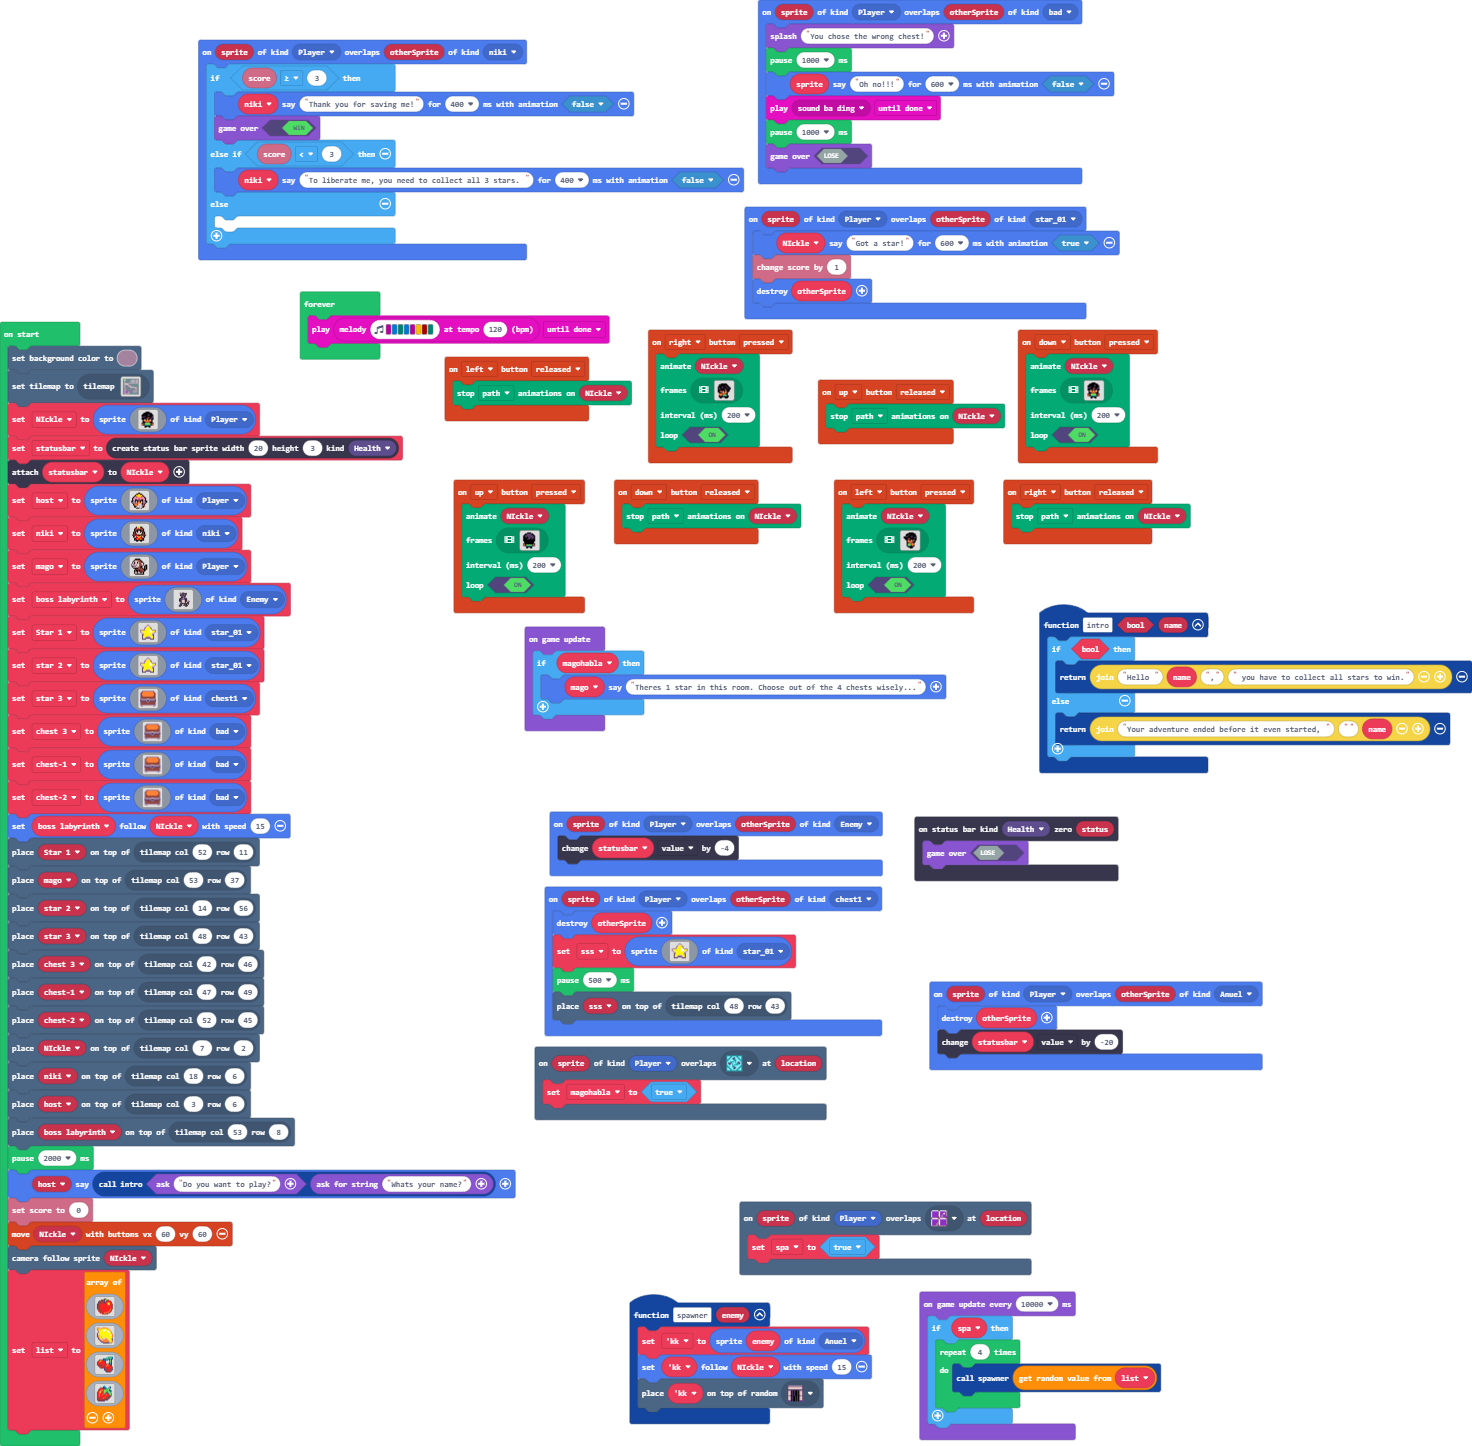
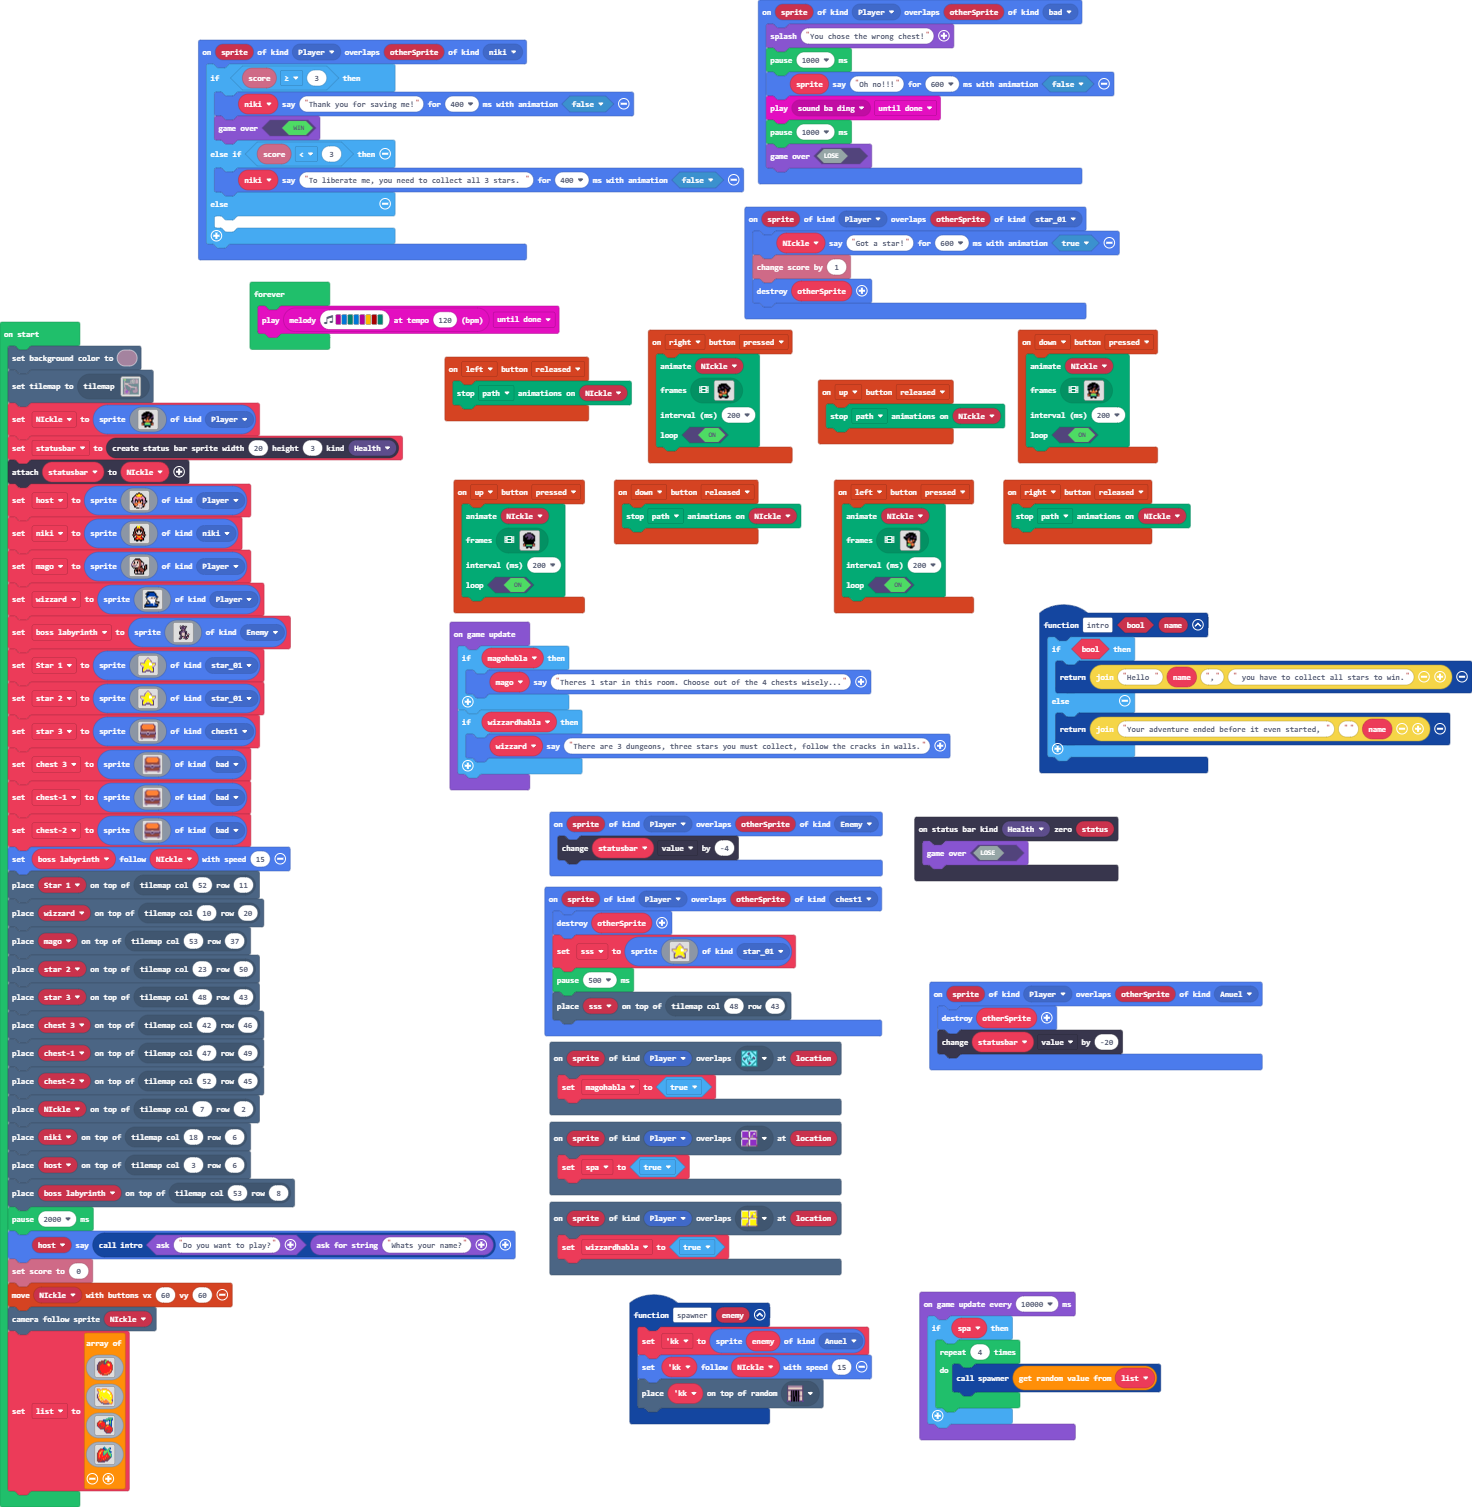
Update main.blocks, main.ts, tilemap.g.jres, tilemap.g.ts

diff --git a/tilemap.g.ts b/tilemap.g.ts
@@ -191,7 +191,7 @@ namespace myTiles {
 . . . . . . . . . . . . . . . . 
 `, [myTiles.transparency16], TileScale.Sixteen);
             case "level0":
[2 lines of base64/hex data omitted]
 222222222222222222222222222222222222222222222222222222222222
 2............22222222222222222222222222222222222222222222222
 2............2222222222222222222222222222222222..........222
@@ -212,7 +212,7 @@ namespace myTiles {
 22222.........................222...222.......2...........22
 22222...........................2222222.....22............22
 22222..................2222222..........22222............222
-22222..................2222222222222222222222222222222222222
+22222.....2............2222222222222222222222222222222222222
 22222..................2222222222222222222222222222222222222
 22222..................2222222222222222222222222222222222222
 22222....................22222222222222222222222222222222222
@@ -252,7 +252,7 @@ namespace myTiles {
 222........................222222222222222222222222222222222
 2222.......................222222222222222222222222222222222
 22222....................22222222222222222222222222222222222
-`, [myTiles.transparency16,sprites.castle.tileGrass2,sprites.dungeon.greenOuterNorth0,sprites.dungeon.darkGroundNorthWest0,sprites.dungeon.darkGroundWest,sprites.dungeon.darkGroundSouthWest0,sprites.dungeon.darkGroundNorth,sprites.castle.tileGrass1,sprites.castle.tileDarkGrass3,sprites.dungeon.darkGroundSouth,sprites.dungeon.darkGroundCenter,sprites.dungeon.darkGroundNorthWest1,sprites.dungeon.floorDark4,sprites.dungeon.stairNorth,sprites.dungeon.floorLightMoss,myTiles.tile2,myTiles.tile3,sprites.dungeon.darkGroundEast,sprites.dungeon.darkGroundNorthEast1,sprites.dungeon.greenOuterNorth1,sprites.swamp.swampTile6,sprites.swamp.swampTile9,sprites.swamp.swampTile12,sprites.swamp.swampTile7,sprites.dungeon.darkGroundNorthEast0,sprites.dungeon.darkGroundSouthEast0,sprites.swamp.swampTile13,sprites.dungeon.floorLight3,sprites.swamp.swampTile14,myTiles.tile4,sprites.dungeon.floorLight4,myTiles.tile5,sprites.dungeon.floorLight1,sprites.dungeon.floorDark0,sprites.dungeon.floorMixed,sprites.dungeon.collectibleInsignia,sprites.dungeon.purpleOuterNorth1,sprites.builtin.coral5,sprites.dungeon.doorClosedNorth], TileScale.Sixteen);
+`, [myTiles.transparency16,sprites.castle.tileGrass2,sprites.dungeon.greenOuterNorth0,sprites.dungeon.darkGroundNorthWest0,sprites.dungeon.darkGroundWest,sprites.dungeon.darkGroundSouthWest0,sprites.dungeon.darkGroundNorth,sprites.castle.tileGrass1,sprites.castle.tileDarkGrass3,sprites.dungeon.darkGroundSouth,sprites.dungeon.darkGroundCenter,sprites.dungeon.darkGroundNorthWest1,sprites.dungeon.floorDark4,sprites.dungeon.stairNorth,sprites.dungeon.floorLightMoss,myTiles.tile2,myTiles.tile3,sprites.dungeon.darkGroundEast,sprites.dungeon.darkGroundNorthEast1,sprites.dungeon.greenOuterNorth1,sprites.swamp.swampTile6,sprites.swamp.swampTile9,sprites.swamp.swampTile12,sprites.swamp.swampTile7,sprites.dungeon.darkGroundNorthEast0,sprites.dungeon.darkGroundSouthEast0,sprites.swamp.swampTile13,sprites.dungeon.floorLight3,sprites.swamp.swampTile14,myTiles.tile4,sprites.dungeon.floorLight4,myTiles.tile5,sprites.dungeon.floorLight1,sprites.dungeon.floorDark0,sprites.dungeon.floorMixed,sprites.dungeon.collectibleInsignia,sprites.dungeon.purpleOuterNorth1,sprites.builtin.coral5,sprites.dungeon.doorClosedNorth,sprites.dungeon.floorDark1,sprites.dungeon.floorLight2], TileScale.Sixteen);
         }
         return null;
     })

diff --git a/main.ts b/main.ts
@@ -255,6 +255,9 @@ sprites.onOverlap(SpriteKind.Player, SpriteKind.Anuel, function (sprite, otherSp
     sprites.destroy(otherSprite)
     statusbar.value += -20
 })
+scene.onOverlapTile(SpriteKind.Player, assets.tile`tile2`, function (sprite, location) {
+    wizzardhabla = true
+})
 sprites.onOverlap(SpriteKind.Player, SpriteKind.star_01, function (sprite, otherSprite) {
     NIckle.sayText("Got a star!", 600, true)
     info.changeScoreBy(1)
@@ -332,6 +335,7 @@ sprites.onOverlap(SpriteKind.Player, SpriteKind.Enemy, function (sprite, otherSp
 })
 let magohabla = false
 let kk: Sprite = null
+let wizzardhabla = false
 let sss: Sprite = null
 let spa = false
 let niki: Sprite = null
@@ -412,6 +416,24 @@ let mago = sprites.create(img`
     . . . f d b f d b f f e f . . . 
     . . . f d d c d d b b d f . . . 
     . . . . f f f f f f f f f . . . 
+    `, SpriteKind.Player)
+let wizzard = sprites.create(img`
+    . . . f f f f f f f . . . . . . 
+    . . f 8 8 8 8 8 8 8 f . . . . . 
+    . f 8 f f 8 8 8 8 8 8 f . . . . 
+    . . f f 8 8 8 8 8 8 8 f . . . . 
+    . . f 8 8 8 8 8 8 8 8 8 f . . . 
+    . f 8 8 1 1 1 1 d d 1 8 8 f . . 
+    . . f 1 d d d f d d f d f . . . 
+    . . f 1 1 d d d d d d 1 f . . . 
+    . . . f 1 1 1 1 1 1 1 f . . . . 
+    . . . f 8 1 1 1 1 1 1 f . . . . 
+    . . f d f 8 1 1 d 1 1 f f f f . 
+    . . f d d f 1 1 1 1 8 d d d f . 
+    . f f f f 8 8 8 8 1 8 f f f . . 
+    f 8 8 8 8 8 8 8 8 1 8 8 8 f . . 
+    f 8 8 8 8 8 8 8 8 8 8 8 8 f . . 
+    f f f f f f f f f f f f f . . . 
     `, SpriteKind.Player)
 let boss_labyrinth = sprites.create(img`
     ................................
@@ -557,8 +579,9 @@ let chest2 = sprites.create(img`
     `, SpriteKind.bad)
 boss_labyrinth.follow(NIckle, 15)
 tiles.placeOnTile(Star_1, tiles.getTileLocation(52, 11))
+tiles.placeOnTile(wizzard, tiles.getTileLocation(10, 20))
 tiles.placeOnTile(mago, tiles.getTileLocation(53, 37))
-tiles.placeOnTile(star_2, tiles.getTileLocation(14, 56))
+tiles.placeOnTile(star_2, tiles.getTileLocation(23, 50))
 tiles.placeOnTile(star_3, tiles.getTileLocation(48, 43))
 tiles.placeOnTile(chest_3, tiles.getTileLocation(42, 46))
 tiles.placeOnTile(chest1, tiles.getTileLocation(47, 49))
@@ -649,6 +672,9 @@ img`
 game.onUpdate(function () {
     if (magohabla) {
         mago.sayText("Theres 1 star in this room. Choose out of the 4 chests wisely...")
+    }
+    if (wizzardhabla) {
+        wizzard.sayText("There are 3 dungeons, three stars you must collect, follow the cracks in walls.")
     }
 })
 forever(function () {
